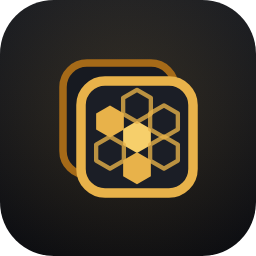
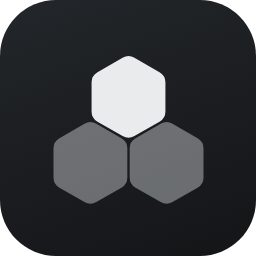
docs(readme): lead with what it is, and the new mark
Claude-Session: https://claude.ai/code/session_01KJJYEaS3TDNVy7P7436qtS

diff --git a/README.md b/README.md
@@ -1,52 +1,45 @@
-<img src="assets/icon.png" width="96" alt="" />
+<p align="center">
+  <img src="assets/icon.png" alt="hivemind" width="76" />
+</p>
 
-# hivemind
+<h1 align="center">hivemind</h1>
 
-A workspace for coding agents, on Linux and macOS. Run them next to the terminals, editors
-and diffs they are working on, grouped by repository, git worktree or SSH host.
+<p align="center"><b>A workspace for coding agents.</b><br />Run them next to the terminals, editors and diffs they are working on.</p>
 
-[Documentation](https://hivemind.griiken.com/guide/) · [Install](#install) · [Releases](https://github.com/dip497/hivemind/releases) · MIT
+<p align="center">
+  <a href="https://hivemind.griiken.com/">site</a> ·
+  <a href="https://hivemind.griiken.com/guide/">docs</a> ·
+  <a href="https://github.com/dip497/hivemind/releases">releases</a> ·
+  <a href="https://hivehub.griiken.workers.dev/">plugins</a>
+</p>
+
+> *Four agents, four terminals, four tabs.* One is waiting for approval, one finished ten
+> minutes ago, one is editing a file you meant to read first — and you find out by cycling
+> through windows.
+
+hivemind puts them on one canvas per repository. Every tile is live: a terminal running an
+agent, a diff that updates as that agent edits, a file tree, an editor, an issues board, a
+browser. Group tiles into frames, bind a frame to a repository, a git worktree or an SSH
+host, and several agents work in parallel without reaching into each other's directories.
 
 <img width="1920" height="1200" alt="An issue board and a live diff side by side on one canvas" src="https://github.com/user-attachments/assets/8b33c851-c4fb-456b-8231-a2ddd3583dfd" />
 
 <sub>An issue board and the live diff of a fix, side by side. The agent edits; the diff updates as you watch.</sub>
 
-## What it is
-
-One infinite canvas per repository. Every tile on it is live: a terminal running an
-agent, a diff that updates as the agent edits, a file tree, an editor, an issues board,
-a web browser. Group tiles into frames, bind each frame to a repository, a git worktree
-or an SSH host, and several agents work in parallel without reaching into each other's
-directories.
-
-Issues, acceptance criteria, cycles and an activity log are markdown files with YAML
-frontmatter under `.hivemind/` in your own repository. No database, no account. Agents
-read and write them through the `hive` CLI, so a change lands in the board while you
-watch.
+---
 
 ## Install
-
-Linux x86_64 and macOS Apple Silicon have prebuilt releases, so you need no toolchain.
-Intel macs and Linux arm64 build from source with `--dev`. Windows builds in CI but
-nothing is published: nobody has confirmed the app launches.
 
 ```bash
 bash <(curl -fsSL https://hivemind.griiken.com/install.sh)
 ```
 
-It resolves the latest release, puts the `hive` CLI and the app under `~/.hivemind-app/`,
-links `hive` and a `hivemind` launcher into `~/.local/bin/`, and registers the app with
-your desktop. Re-run it to upgrade; pin a version with `HIVEMIND_VERSION=v1.0.0`.
+Linux x86_64 and macOS Apple Silicon have prebuilt releases, so you need no toolchain;
+Intel macs and Linux arm64 build from source with `--dev`. Re-run it to upgrade, or pin a
+version with `HIVEMIND_VERSION=v2026.9.0`. Windows builds and passes its checks in CI, but
+nothing is published until it has been launched on real hardware.
 
-The macOS release is ad-hoc signed rather than notarized, so the installer strips the
-quarantine attribute. Install the `.app` by hand and Gatekeeper will call it damaged
-until you do the same:
-
-```bash
-xattr -dr com.apple.quarantine ~/.hivemind-app/hivemind.app
-```
-
-## Quick start
+## Use
 
 ```bash
 cd ~/my-project
@@ -55,85 +48,41 @@ hive new "Fix token expiry comparison"
 hivemind .
 ```
 
-In the canvas, `1`–`7` spawn a terminal, an agent, an explorer, a diff, the issues
-board, a frame or a browser. Click **Work** on an issue and the agent starts with that
-issue and the `hive` skills already loaded. `⌘L` opens the layers rail, `⌘E` switches
-view.
+`1`–`7` spawn a terminal, an agent, an explorer, a diff, the issues board, a frame or a
+browser. Click **Work** on an issue and the agent starts with that issue and the `hive`
+skills loaded. `⌘L` opens the layers rail, `⌘E` switches view.
+
+## What you get
+
+| | |
+|---|---|
+| **Agents you already have** | no agent ships in the app: the ones whose CLI is on your machine are added from [HiveHub](https://hivehub.griiken.workers.dev/), and a notice says what each can do |
+| **Status you can see** | working, finished, or waiting for you — read from the agent's own screen, so it needs no cooperation |
+| **Terminals that outlive the window** | a detached daemon keeps them running and replays the screen on reopen; a session resumes after a reboot |
+| **Issues as files in your repo** | markdown with YAML frontmatter under `.hivemind/`; no database, no account |
+| **Agents driving the canvas** | `hive ctl` spawns a tile, sends it work, reads the reply, pipes agents together, brokers approvals — over a local `0600` socket, with no MCP server to run |
+| **Views and plugins** | the canvas is one view; install another from HiveHub or write one against a sandboxed API with no files, network or app access |
+
+Works with **Claude Code · Codex · Cursor · Droid · Kiro · pi · Gemini · opencode** and a
+dozen more, on Linux and macOS.
 
 ## Bring your own agent
 
 An agent is a manifest: a file naming the command to run and how to read that command's
-screen. No agent ships in the app — they come from the HiveHub registry and are added
-automatically when their CLI is found on your machine (a notice says what each one can
-do, with a Remove button). Adding a new agent for everyone is a pull request to
-[dip497/hivemind-plugins](https://github.com/dip497/hivemind-plugins); locally it is one
-file, and it passes exactly the checks a listed one does, so there is no privileged tier
+screen. Yours passes exactly the checks a listed one does, so there is no privileged tier
 and nothing to fork.
 
 ```bash
 hive agents validate ./my-agent    # what a user will be told about it
 hive agents install ./my-agent     # from a folder
-hive agents install owner/repo     # or straight from a repository
+hive agents install gemini         # or by name, from HiveHub
 ```
 
-Before anything installs, hivemind says in plain words what it will do: the command it
-runs, any directory it reads, whether it can reach the other agents on your canvas. An
-agent added automatically, because its CLI turned up on your machine, may do none of
-those. See [adding an agent](https://hivemind.griiken.com/guide/agent-providers/).
-
-## Views
-
-A view draws the whole workspace. Canvas and Windows ship; anything else you install
-from the catalog or write yourself, against a sandboxed API with no access to files, the
-network or the app. Switching never touches a session — tile bodies are mounted once and
-lent to whichever view is on screen. See [views](https://hivemind.griiken.com/guide/views/).
-
-## How agents drive the canvas
-
-`hive ctl` is one vocabulary for every runtime, over a local `0600` socket. An agent in
-one tile can spawn another, send it work, read its reply, pipe several together, and
-broker a worker's permission prompts back to itself. What a runtime cannot do is refused
-with an exit code rather than left to time out. There is no MCP server to run.
-
-See [agent workflows](https://hivemind.griiken.com/guide/agent-workflows/) and the
-[CLI reference](https://hivemind.griiken.com/guide/cli/).
-
-## Where things live
-
-```text
-.hivemind/                              # in YOUR repo
-├── issues/      <ID>.md (YAML frontmatter)  ← the source of truth
-├── cycles/      sprint definitions
-└── config.yaml  workspace prefix, next id
-
-apps/
-├── cli/         the hive CLI; `hive ctl` is the agent control plane
-└── desktop/     Electron + React
-                 ├─ Canvas       xyflow infinite canvas
-                 ├─ TerminalTile xterm.js + WebGL + the agent-status bus
-                 ├─ DiffTile     diff and review
-                 ├─ EditorTile   CodeMirror tabs
-                 ├─ IssuesTile   the issues board
-                 ├─ BrowserTile  multi-tab webview + CDP bridge
-                 ├─ FrameNode    repository / worktree / remote zones
-                 ├─ main/remote/ ssh2 transport — remote PTY, SFTP, git
-                 └─ pty-daemon   detached node-pty + screen snapshots
-
-packages/
-├── hive-core/     storage, parsing, skill templates
-├── hive-agents/   the agent loader — one manifest per agent, from HiveHub
-└── hive-view-sdk/ the API a view plugin is written against
-```
-
-Your settings are one file you own: `$XDG_CONFIG_HOME/hivemind/settings.json`
-(`$HIVE_SETTINGS` overrides it). Terminals outlive the window — a detached PTY daemon
-keeps them running and replays the current screen on reopen, and a `claude` session
-resumes after a reboot because the spawn bound its session id.
-
-Ideas borrowed: [Plane](https://plane.so) for issues and cycles,
-[tldraw](https://tldraw.com) and Figma for frame-as-workspace,
-[tmux](https://github.com/tmux/tmux) for detach-keeps-alive,
-[Pierre](https://pierre.co) for a diff that belongs in the canvas.
+Adding an agent for everyone is a pull request to
+[dip497/hivemind-plugins](https://github.com/dip497/hivemind-plugins). Views are yours to
+publish: `hive views new <name>` writes one, `hivehub publish` lists it. See
+[agents](https://hivemind.griiken.com/guide/agent-providers/) and
+[views](https://hivemind.griiken.com/guide/views/).
 
 ## Development
 
@@ -145,19 +94,21 @@ pnpm --filter @hivemind/desktop run dev          # the app, reloading
 pnpm --filter @hivemind/cli run dev <subcommand> # the CLI
 pnpm --filter @hivemind/desktop run test:unit    # node:test
 pnpm --filter @hivemind/desktop run test:e2e     # playwright under xvfb
-pnpm --filter @hivemind/desktop run typecheck
 ```
 
-The renderer-only loop (`run dev:bridge -- /path/to/repo`, on
-[localhost:5180](http://localhost:5180/)) must run under `tsx`, not bun: bun's loader
-silently drops `@lydell/node-pty` output on Linux. It guards against starting under bun.
+The renderer-only loop (`run dev:bridge -- /path/to/repo`) must run under `tsx`, not bun:
+bun's loader silently drops `@lydell/node-pty` output on Linux.
 
-## Contributing
+Issues and pull requests are welcome — `pnpm typecheck` and the unit tests should pass
+first; the e2e suite needs a quiet machine. See
+[contributing](https://hivemind.griiken.com/guide/contributing/) and the
+[architecture](https://hivemind.griiken.com/guide/).
 
-Issues and pull requests are welcome. `pnpm typecheck` and the unit tests should pass
-before you open one; the e2e suite needs a quiet machine. See
-[contributing](https://hivemind.griiken.com/guide/contributing/).
+---
 
-## License
+Ideas borrowed: [Plane](https://plane.so) for issues and cycles,
+[tldraw](https://tldraw.com) and Figma for frame-as-workspace,
+[tmux](https://github.com/tmux/tmux) for detach-keeps-alive,
+[Pierre](https://pierre.co) for a diff that belongs in the canvas.
 
-MIT. See [LICENSE](./LICENSE).
+MIT — see [LICENSE](./LICENSE).
